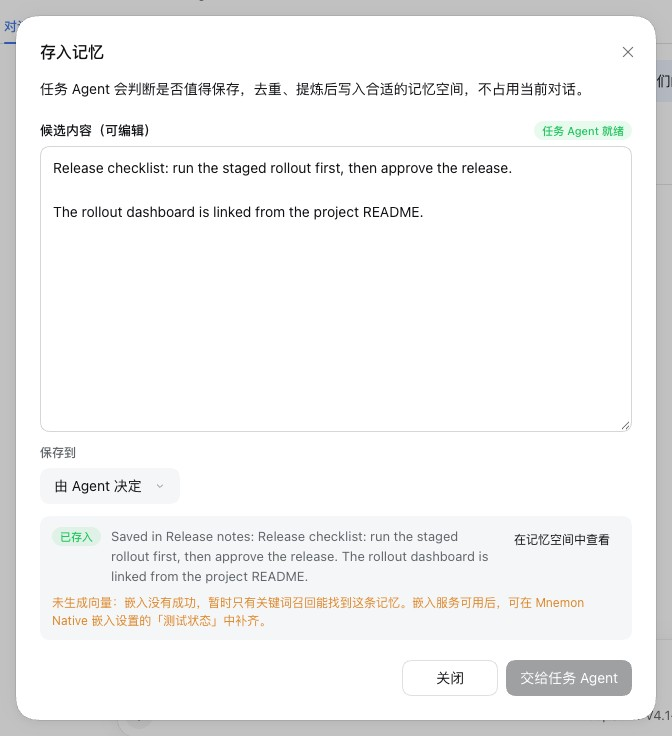
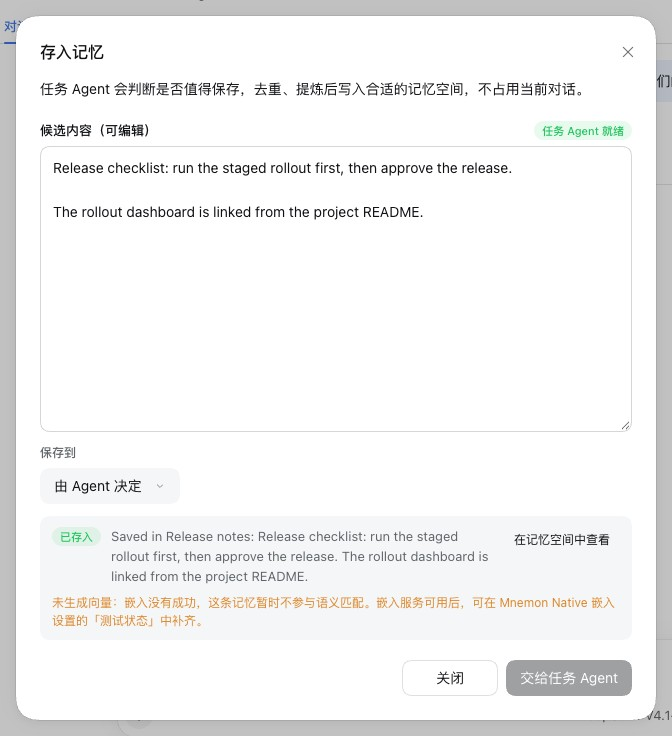
docs(pr-assets): record the receipts again with the reworded line (#388)

Changed region(s): [[0.0938, 0.8125, 0.9062, 0.875]]

diff --git a/docs/pr-assets/issue-388-unembedded-receipt/README.md b/docs/pr-assets/issue-388-unembedded-receipt/README.md
@@ -20,12 +20,12 @@ A probe with the real CLI ([harness/remember-without-vector.py](./harness/rememb
 
 ## Fix
 
-- A write through the task Agent lists every memory a Provider receipt reported as `embedded: false` in `unembedded`, with a `hint`: keyword recall finds it, semantic recall misses it until its vector is filled in, from Test status in the Mnemon Native embedding settings once the embedding service answers. That runs through the storage root and embedding settings DSH uses; a terminal `mnemon` command may reach neither. The root Agent reads both in the `mnemon_remember` result.
-- `/mnemon remember` adds the line 未生成向量：嵌入没有成功，暂时只有关键词召回能找到这条记忆。嵌入服务可用后，可在 Mnemon Native 嵌入设置的「测试状态」中补齐。 ("Saved without a vector: embedding did not succeed, so only keyword recall finds this memory for now. Once the embedding service answers, fill it in from Test status in the Mnemon Native embedding settings.")
+- A write through the task Agent lists every memory a Provider receipt reported as `embedded: false` in `unembedded`, with a `hint`: semantic matching misses it until its vector is filled in, from Test status in the Mnemon Native embedding settings once the embedding service answers, while keyword, link and recency recall still reach it. That runs through the storage root and embedding settings DSH uses; a terminal `mnemon` command may reach neither. The root Agent reads both in the `mnemon_remember` result.
+- `/mnemon remember` adds the line 未生成向量：嵌入没有成功，这条记忆暂时不参与语义匹配。嵌入服务可用后，可在 Mnemon Native 嵌入设置的「测试状态」中补齐。 ("Saved without a vector: embedding did not succeed, so this memory is left out of semantic matching for now. Once the embedding service answers, fill it in from Test status in the Mnemon Native embedding settings.")
 - The Save to memory receipts add the same line in a caution tone, in a conversation and on the Memory Spaces page, whether the task Agent wrote the memory or the text went straight to a space.
 - The line appears only when the write put a memory somewhere: a run that ended as a skipped duplicate says nothing about a vector.
 
-Review changed three things in the first version. Its hint suggested `mnemon --store <id> embed --all`, which runs against the default data directory unless `--data-dir` names DSH's storage root, and without DSH's managed embedding settings: run against another directory, it answered that every memory already had its vector and created an empty Store besides. Its line said the service did not answer, while a missing model gives the same receipt. And the writer's persona asked the summary to repeat what the line already says.
+Review changed three things in the first version. Its hint suggested `mnemon --store <id> embed --all`, which runs against the default data directory unless `--data-dir` names DSH's storage root, and without DSH's managed embedding settings: run against another directory, it answered that every memory already had its vector and created an empty Store besides. Its line said the service did not answer, while a missing model gives the same receipt. And the writer's persona asked the summary to repeat what the line already says. A later review, of the change for #392, found that "only keyword recall finds" the memory overstated the loss: Mnemon recall also reaches it through links and recency, and only the semantic match is missing. `5a371060` says so in the line and the hint, and the screenshots below were taken again on it.
 
 The **补齐** (Fill in) action under Test status that the next step points to comes with the change for issue #392, which lists every space's vectors there.
 

diff --git a/docs/pr-assets/issue-388-unembedded-receipt/README.zh-CN.md b/docs/pr-assets/issue-388-unembedded-receipt/README.zh-CN.md
@@ -20,12 +20,12 @@ Mnemon Native 本来就会说明：嵌入调用失败（服务不可用或缺少
 
 ## 修复
 
-- 经由任务 Agent 的写入，会在 `unembedded` 中列出 Provider 回执报告为 `embedded: false` 的每条记忆，并附上 `hint`：关键词召回能找到它，语义召回要等补齐向量后才能找到；嵌入服务可用后，可在 Mnemon Native 嵌入设置的「测试状态」中补齐。补齐使用 DSH 的存储根目录和嵌入设置，在终端运行的 `mnemon` 命令两者都未必一致。根 Agent 在 `mnemon_remember` 的结果中能读到这两项。
-- `/mnemon remember` 加一行：未生成向量：嵌入没有成功，暂时只有关键词召回能找到这条记忆。嵌入服务可用后，可在 Mnemon Native 嵌入设置的「测试状态」中补齐。
+- 经由任务 Agent 的写入，会在 `unembedded` 中列出 Provider 回执报告为 `embedded: false` 的每条记忆，并附上 `hint`：补齐向量之前，它不参与语义匹配，关键词、关联与时间召回仍能找到它；嵌入服务可用后，可在 Mnemon Native 嵌入设置的「测试状态」中补齐。补齐使用 DSH 的存储根目录和嵌入设置，在终端运行的 `mnemon` 命令两者都未必一致。根 Agent 在 `mnemon_remember` 的结果中能读到这两项。
+- `/mnemon remember` 加一行：未生成向量：嵌入没有成功，这条记忆暂时不参与语义匹配。嵌入服务可用后，可在 Mnemon Native 嵌入设置的「测试状态」中补齐。
 - 「存入记忆」的回执以提醒色加上同样一行，对话中和记忆空间页上都是，无论记忆由任务 Agent 写入，还是直接写入某个空间。
 - 只有写入确实存入了记忆时才显示这一行：以重复而跳过结束的运行不会提到向量。
 
-审查改动了第一版的三处。它的提示建议执行 `mnemon --store <id> embed --all`，这条命令除非用 `--data-dir` 指明 DSH 的存储根目录，否则作用于默认数据目录，也不带 DSH 管理的嵌入设置：对着另一个目录运行时，它回答所有记忆都已有向量，还额外创建了一个空 Store。它的那一行说嵌入服务没有响应，而缺少模型时回执也一样。写入子 Agent 的人设还要求摘要重复这一行已经说过的内容。
+审查改动了第一版的三处。它的提示建议执行 `mnemon --store <id> embed --all`，这条命令除非用 `--data-dir` 指明 DSH 的存储根目录，否则作用于默认数据目录，也不带 DSH 管理的嵌入设置：对着另一个目录运行时，它回答所有记忆都已有向量，还额外创建了一个空 Store。它的那一行说嵌入服务没有响应，而缺少模型时回执也一样。写入子 Agent 的人设还要求摘要重复这一行已经说过的内容。之后对 #392 改动的审查发现，「只有关键词召回能找到」把损失说重了：Mnemon 的召回还能经由关联和时间找到这条记忆，缺少的只是语义匹配。`5a371060` 在这一行和提示中改为这样说，下面的截图也在它上面重新拍摄。
 
 下一步所指的「测试状态」下的 **补齐**，随 issue #392 的改动一起提供；那项改动在那里列出每个空间的向量。
 
